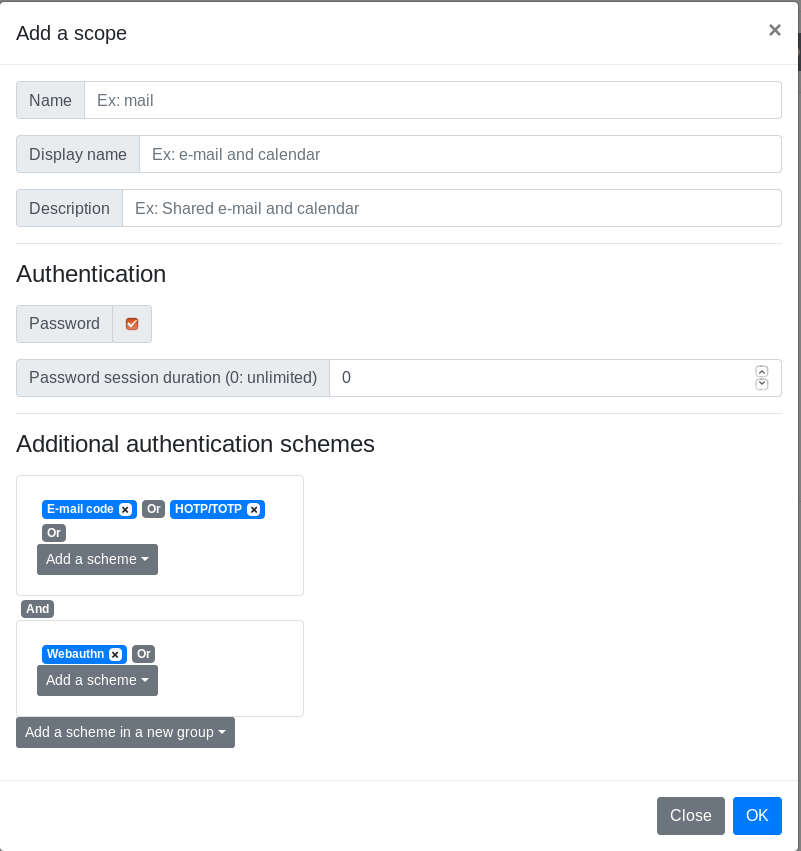
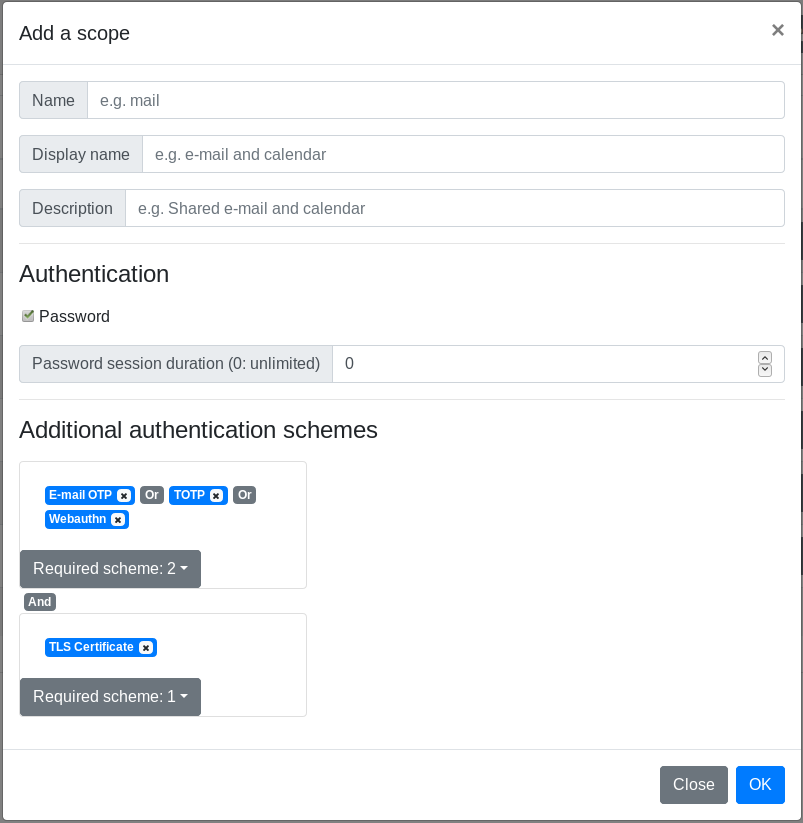
Update scope doc with scheme required

diff --git a/docs/SCOPE.md b/docs/SCOPE.md
@@ -32,7 +32,9 @@ If password is required, set a maximum age for the password in the current sessi
 
 ## Additional authentication schemes
 
-In this section, you can add one or more authentication schemes to the scope. You can gather authentication schemes in groups to allow multiple authentication factor, and you can have multiple groups to force more than one additional authentication factor.
+In this section, you can add one or more authentication schemes to the scope. You can gather authentication schemes in groups to allow multiple authentication factor, you can have multiple groups to force more than one additional authentication factor.
+
+You can specify the number of schemes required by group to authenticate, this option is useful if you want to enforce security for a scope but letting users the choice of schemes to use. e.g., a scope can have one group with 4 schemes and 2 schemes required.
 
 The authentication group model can be represented as the following schema:
 
